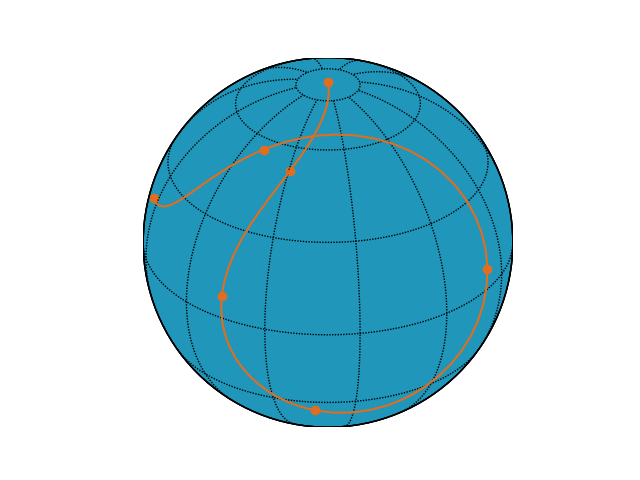
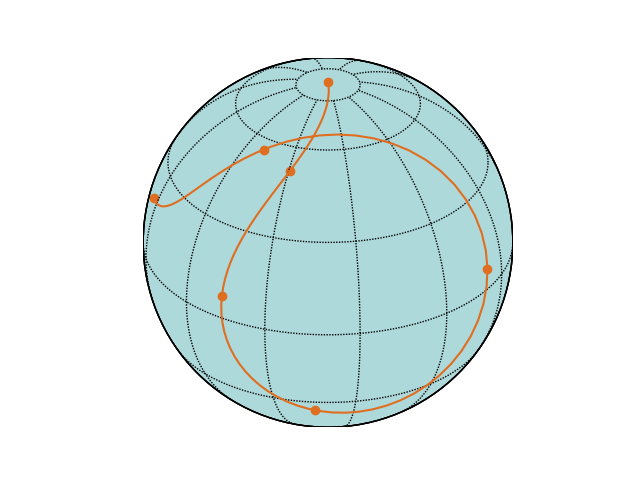
ccchanges

diff --git a/docs/build/searchindex.js b/docs/build/searchindex.js
@@ -1,1 +1,1 @@
-Search.setIndex({docnames:["auto_examples/index","auto_examples/plot_exp","auto_examples/plot_gaussianprocess","auto_examples/plot_mlfm_sim","index","reference/gaussianprocesses","reference/index","reference/kernels","reference/pydygp.gaussianprocesses.BaseGaussianProcess","reference/pydygp.gaussianprocesses.GaussianProcess","reference/pydygp.gaussianprocesses._GaussianProcess","reference/pydygp.kernels.BaseKernel","reference/pydygp.kernels.Kernel","reference/pydygp.kernels.SquareExponKernel","reference/pydygp.kernels.SquareExponentialKernel","user/index","user/modules/example","user/modules/gaussian_process","user/modules/kernels","user/modules/mlfm"],envversion:53,filenames:["auto_examples/index.rst","auto_examples/plot_exp.rst","auto_examples/plot_gaussianprocess.rst","auto_examples/plot_mlfm_sim.rst","index.rst","reference/gaussianprocesses.rst","reference/index.rst","reference/kernels.rst","reference/pydygp.gaussianprocesses.BaseGaussianProcess.rst","reference/pydygp.gaussianprocesses.GaussianProcess.rst","reference/pydygp.gaussianprocesses._GaussianProcess.rst","reference/pydygp.kernels.BaseKernel.rst","reference/pydygp.kernels.Kernel.rst","reference/pydygp.kernels.SquareExponKernel.rst","reference/pydygp.kernels.SquareExponentialKernel.rst","user/index.rst","user/modules/example.rst","user/modules/gaussian_process.rst","user/modules/kernels.rst","user/modules/mlfm.rst"],objects:{"":{pydygp:[6,0,0,"-"]},"pydygp.gaussianprocesses":{BaseGaussianProcess:[8,1,1,""],GaussianProcess:[9,1,1,""],_GaussianProcess:[10,1,1,""]},"pydygp.gaussianprocesses.BaseGaussianProcess":{__init__:[8,2,1,""],fit:[8,2,1,""]},"pydygp.gaussianprocesses.GaussianProcess":{__init__:[9,2,1,""],fit:[9,2,1,""],hyperpar_mh_update:[9,2,1,""],hyperpar_optim:[9,2,1,""],loglikelihood:[9,2,1,""],pred:[9,2,1,""],sim:[9,2,1,""]},"pydygp.gaussianprocesses._GaussianProcess":{__init__:[10,2,1,""]},"pydygp.kernels":{BaseKernel:[11,1,1,""],Kernel:[12,1,1,""],SquareExponentialKernel:[14,1,1,""]},"pydygp.kernels.BaseKernel":{__init__:[11,2,1,""],cov:[11,2,1,""]},"pydygp.kernels.Kernel":{SquareExponKernel:[12,3,1,""],__init__:[12,2,1,""]},"pydygp.kernels.SquareExponentialKernel":{__init__:[14,2,1,""]}},objnames:{"0":["py","module","Python module"],"1":["py","class","Python class"],"2":["py","method","Python method"],"3":["py","classmethod","Python class method"]},objtypes:{"0":"py:module","1":"py:class","2":"py:method","3":"py:classmethod"},terms:{"2096ba":3,"30n":3,"70w":3,"\u00f3scar":1,"case":9,"class":[5,8,9,10,11,12,14,15],"default":[9,17],"function":[0,3,6,8,9,11,15,17],"import":[1,2,3,15,17,19],"int":9,"n\u00e1jera":1,"new":17,"return":[2,3,9,11],"true":[2,3,8,17],And:5,For:[6,15],ODE:3,The:[7,9,14,15,17,19],Then:17,Using:[4,15],__init__:[8,9,10,11,12,14],__main__:[1,2,3],__name__:[1,2,3],_gaussianprocess:[6,17],accur:[9,10,11,12],algebra:3,all:0,along:19,alpha:2,also:6,altogeth:17,applic:10,arang:3,arctan2:3,arg:9,argument:9,around:19,arrai:[3,19],auto_examples_jupyt:0,auto_examples_python:0,autonomi:1,az_:3,base:11,basegaussianprocess:[6,17],basekernel:6,basemap:3,basi:3,basic:[3,8,9,17],beg:9,behav:10,bsd:1,call:[9,17],can:17,cannot:12,carri:[8,9],cart2sph:3,cart:3,classmethod:12,claus:1,click:[1,2,3],code:[0,1,2,3,17,19],color:3,comput:[3,9],condit:17,consid:19,constant:19,construct:[5,8],contain:15,content:[4,5],contour:3,coord:3,coordin:3,cov:[2,11],cov_method:11,covari:[2,8,9,11,17],cpred:17,creat:[12,19],creation:10,data:[3,17],def:[1,2,3],degre:[3,9],dens:[2,3],depend:10,describ:6,detail:[6,15],df6e21:3,diag:2,dim:[12,14],displai:19,document:15,domain:9,down:3,download:[0,1,2,3],draw:3,drawmapboundari:3,drawmeridian:3,drawparallel:3,edg:3,el_:3,end:9,estim:9,everi:3,exampl:[1,2,3,6,12,15,19],exp:1,explain:15,exponenti:[0,2,12,14,15],expos:10,extra:9,factori:10,fals:[8,9],featur:15,figur:[1,2],fill_between:2,fill_col:3,fill_color:3,finit:9,first:19,fit:[0,5,8,9,16,17],fluctat:19,forc:[3,4,15],form:9,from:[2,3,17,19],full:[1,2,3],func:9,further:6,g_gp:3,galleri:[1,2,3,4,15],gaussian:[0,3,4,6,9,10,15,16],gaussianprocess:[2,3,6,15,17,19],gener:[0,1,2,3,15],given:[8,17],gps:3,grid:3,group:3,guid:[4,6],hast:9,have:17,help:[9,10,11,12],here:[1,2,3],hire:[17,19],how:[6,15],hxy:3,hyper:9,hyperpar_mh_upd:9,hyperpar_optim:[9,17],hyperparamet:[9,15],hypot:3,ight:[],imag:1,implement:17,includ:6,independ:3,index:4,infinitesim:[3,19],initalis:[2,8],initi:[9,10,11,12],input:9,instal:15,intdend:15,interpol:9,intersphinx:12,introductori:15,invol:19,ipynb:[1,2,3],is_mean_zero:8,jitter:9,jupyt:[0,1,2,3],kernel:[2,4,6,8,9,15,17],kfunc:12,kpar:[3,8,9,11,12,14,17,19],kpar_cur:9,kpar_prior:9,kpar_propos:9,kwarg:[9,12],lat:3,lat_0:3,latent:[3,4,15],len:3,let:19,licens:1,lie:3,like:10,likelihood:9,limb:3,line:3,linecol:3,linlatentforcemodel:[3,15,19],linspac:[1,2,3,17],list:19,log:9,loglikelihood:9,lon:3,lon_0:3,look:3,lpcur:9,mai:17,main:[1,2,3],make:[3,15,17,19],manag:10,map:3,mathbf:[],matplotlib:[1,2,3],matric:[3,19],matrix:[9,11],maximum:9,mean:[2,17],method:[8,9,11,12,14,17],metropoli:9,minut:[1,2,3],mlfm:[0,15],model:[3,4,5,15],modul:[4,6],more:[5,6,10],most:15,mpl_toolkit:3,mpred:17,multipl:[1,4,15],must:9,nativ:3,none:[2,8,9,11,12,14,17],north:19,notebook:[0,1,2,3],numpi:[1,2,3,17,19],object:[6,10,15,17],observ:[2,17],optimis:15,option:9,order:1,ortho:3,orthograph:3,out:[3,8,9],over:[3,9],overview:15,p_x:3,p_y:3,packag:[6,15],page:4,par_grad:11,paramet:[8,9,17],parameteris:[11,14],particular:17,pass:[9,19],pdf:[17,19],perform:[9,17],perspect:3,pickl:12,plot:[0,2,3],plot_exp:1,plot_gaussianprocess:2,plot_mlfm_sim:3,plote:1,plt:[1,2,3],png:[17,19],point:[9,17],pole:19,polynomi:9,pred:[2,9,17],predict:[2,9,17],process:[0,3,4,6,9,10,15,16],project:3,put:17,px_d:3,py_d:3,pydygp:[2,3,17,19],pyplot:[1,2,3],python:[0,1,2,3],rad2deg:3,random:[2,3,19],rang:3,refer:[4,15],region:3,regress:15,relat:5,resolut:3,result:19,return_cov:9,return_covar:[2,9,17],return_gp:3,rotat:[3,19],run:[1,2,3],sampl:[2,9,17],satellit:3,scatter:3,script:[1,2,3],search:4,second:[1,2,3],see:[6,9,10,11,12,15],seed:[2,3],self:[9,10,11,12],set:[3,17],shere:19,show:[1,2,3],signatur:[9,10,11,12],sim:[2,3,9],simpl:[1,2,15,19],simul:[0,9,15,16],sin:17,singl:9,solv:3,some:[2,3,17],sourc:[0,1,2,3,8,9,10,11,12,14,17,19],sphere:19,spheric:3,sphinx:[0,1,2,3,4,15],sqexp:[2,3,19],sqexp_gpr:17,sqrt:2,squar:[2,12,14,15],squareexponentialkernel:[6,17,18],squareexponkernel:12,stack:1,standard:3,store:9,store_cov:8,store_inv_cov:[8,9],store_new_par:9,struct_mat:3,structur:19,test:1,thei:6,thi:[6,12,15],time:[1,2,3],total:[1,2,3],trajectori:3,tt_d:3,tt_dens:3,tt_gp_sim:3,ttd:17,tupl:9,two:1,type:[9,10,11,12],updat:9,use:[6,12,15],used:[9,17],user:[4,6,10],using:[15,17],util:3,variabl:9,what:6,where:[3,9],which:9,xlabel:1,xnew:9,y_dens:3,ylabel:1,you:12,zip:0},titles:["Gallery of Examples","Plotting the exponential function","Simulate and Fit a Gaussian Process","Simulating the MLFM","Welcome to pydygp\u2019s documentation!","Gaussian Processes","PydyGp Reference","Kernels","pydygp.gaussianprocesses.BaseGaussianProcess","pydygp.gaussianprocesses.GaussianProcess","pydygp.gaussianprocesses._GaussianProcess","pydygp.kernels.BaseKernel","pydygp.kernels.Kernel","pydygp.kernels.SquareExponKernel","pydygp.kernels.SquareExponentialKernel","PydyGp User Guide","4. Using Sphinx Gallery","2. Gaussian Processes","1. Kernels","3. Multiplicative Latent Force Models"],titleterms:{"function":1,The:18,Using:16,_gaussianprocess:10,basegaussianprocess:8,basekernel:11,document:4,exampl:[0,16],exponenti:[1,18],fit:2,forc:19,galleri:[0,16],gaussian:[2,5,17],gaussianprocess:[8,9,10,16],gener:18,guid:15,hyperparamet:17,indic:4,kernel:[7,11,12,13,14,18],latent:19,linlatentforcemodel:16,mlfm:[3,16,19],model:19,multipl:19,object:18,optimis:17,plot:1,process:[2,5,17],pydygp:[4,6,8,9,10,11,12,13,14,15,16],refer:6,regress:17,simpl:17,simul:[2,3,19],sphinx:16,squar:18,squareexponentialkernel:14,squareexponkernel:13,tabl:4,user:15,using:16,welcom:4}})
+Search.setIndex({docnames:["auto_examples/index","auto_examples/plot_exp","auto_examples/plot_gaussianprocess","auto_examples/plot_mlfm_sim","index","reference/gaussianprocesses","reference/index","reference/kernels","reference/pydygp.gaussianprocesses.BaseGaussianProcess","reference/pydygp.gaussianprocesses.GaussianProcess","reference/pydygp.gaussianprocesses._GaussianProcess","reference/pydygp.kernels.BaseKernel","reference/pydygp.kernels.Kernel","reference/pydygp.kernels.SquareExponKernel","reference/pydygp.kernels.SquareExponentialKernel","user/index","user/modules/example","user/modules/gaussian_process","user/modules/kernels","user/modules/mlfm"],envversion:53,filenames:["auto_examples/index.rst","auto_examples/plot_exp.rst","auto_examples/plot_gaussianprocess.rst","auto_examples/plot_mlfm_sim.rst","index.rst","reference/gaussianprocesses.rst","reference/index.rst","reference/kernels.rst","reference/pydygp.gaussianprocesses.BaseGaussianProcess.rst","reference/pydygp.gaussianprocesses.GaussianProcess.rst","reference/pydygp.gaussianprocesses._GaussianProcess.rst","reference/pydygp.kernels.BaseKernel.rst","reference/pydygp.kernels.Kernel.rst","reference/pydygp.kernels.SquareExponKernel.rst","reference/pydygp.kernels.SquareExponentialKernel.rst","user/index.rst","user/modules/example.rst","user/modules/gaussian_process.rst","user/modules/kernels.rst","user/modules/mlfm.rst"],objects:{"":{pydygp:[6,0,0,"-"]},"pydygp.gaussianprocesses":{BaseGaussianProcess:[8,1,1,""],GaussianProcess:[9,1,1,""],_GaussianProcess:[10,1,1,""]},"pydygp.gaussianprocesses.BaseGaussianProcess":{__init__:[8,2,1,""],fit:[8,2,1,""]},"pydygp.gaussianprocesses.GaussianProcess":{__init__:[9,2,1,""],fit:[9,2,1,""],hyperpar_mh_update:[9,2,1,""],hyperpar_optim:[9,2,1,""],loglikelihood:[9,2,1,""],pred:[9,2,1,""],sim:[9,2,1,""]},"pydygp.gaussianprocesses._GaussianProcess":{__init__:[10,2,1,""]},"pydygp.kernels":{BaseKernel:[11,1,1,""],Kernel:[12,1,1,""],SquareExponentialKernel:[14,1,1,""]},"pydygp.kernels.BaseKernel":{__init__:[11,2,1,""],cov:[11,2,1,""]},"pydygp.kernels.Kernel":{SquareExponKernel:[12,3,1,""],__init__:[12,2,1,""]},"pydygp.kernels.SquareExponentialKernel":{__init__:[14,2,1,""]}},objnames:{"0":["py","module","Python module"],"1":["py","class","Python class"],"2":["py","method","Python method"],"3":["py","classmethod","Python class method"]},objtypes:{"0":"py:module","1":"py:class","2":"py:method","3":"py:classmethod"},terms:{"2096ba":[],"30n":3,"70w":3,"\u00f3scar":1,"case":9,"class":[5,8,9,10,11,12,14,15],"default":[9,17],"function":[0,3,6,8,9,11,15,17],"import":[1,2,3,15,17,19],"int":9,"n\u00e1jera":1,"new":17,"return":[2,3,9,11],"true":[2,3,8,17],And:5,For:[6,15],ODE:3,The:[7,9,14,15,17,19],Then:17,Using:[4,15],__init__:[8,9,10,11,12,14],__main__:[1,2,3],__name__:[1,2,3],_gaussianprocess:[6,17],accur:[9,10,11,12],aed9da:3,algebra:3,all:0,along:19,alpha:2,also:6,altogeth:17,applic:10,arang:3,arctan2:3,arg:9,argument:9,around:19,arrai:[3,19],auto_examples_jupyt:0,auto_examples_python:0,autonomi:1,az_:3,base:11,basegaussianprocess:[6,17],basekernel:6,basemap:3,basi:3,basic:[3,8,9,17],beg:9,behav:10,bsd:1,call:[9,17],can:17,cannot:12,carri:[8,9],cart2sph:3,cart:3,classmethod:12,claus:1,click:[1,2,3],code:[0,1,2,3,17,19],color:3,comput:[3,9],condit:17,consid:19,constant:19,construct:[5,8],contain:15,content:[4,5],contour:3,coord:3,coordin:3,cov:[2,11],cov_method:11,covari:[2,8,9,11,17],cpred:17,creat:[12,19],creation:10,data:[3,17],def:[1,2,3],degre:[3,9],dens:[2,3],depend:10,describ:6,detail:[6,15],df6e21:3,diag:2,dim:[12,14],displai:19,document:15,domain:9,down:3,download:[0,1,2,3],draw:3,drawmapboundari:3,drawmeridian:3,drawparallel:3,edg:3,el_:3,end:9,estim:9,everi:3,exampl:[1,2,3,6,12,15,19],exp:1,explain:15,exponenti:[0,2,12,14,15],expos:10,extra:9,factori:10,fals:[8,9],featur:15,figur:[1,2],fill_between:2,fill_col:3,fill_color:3,finit:9,first:19,fit:[0,5,8,9,16,17],fluctat:19,forc:[3,4,15],form:9,from:[2,3,17,19],full:[1,2,3],func:9,further:6,g_gp:3,galleri:[1,2,3,4,15],gaussian:[0,3,4,6,9,10,15,16],gaussianprocess:[2,3,6,15,17,19],gener:[0,1,2,3,15],given:[8,17],gps:3,grid:3,group:3,guid:[4,6],hast:9,have:17,help:[9,10,11,12],here:[1,2,3],hire:[17,19],how:[6,15],hxy:3,hyper:9,hyperpar_mh_upd:9,hyperpar_optim:[9,17],hyperparamet:[9,15],hypot:3,ight:[],imag:1,implement:17,includ:6,independ:3,index:4,infinitesim:[3,19],initalis:[2,8],initi:[9,10,11,12],input:9,instal:15,intdend:15,interpol:9,intersphinx:12,introductori:15,invol:19,ipynb:[1,2,3],is_mean_zero:8,jitter:9,jupyt:[0,1,2,3],kernel:[2,4,6,8,9,15,17],kfunc:12,kpar:[3,8,9,11,12,14,17,19],kpar_cur:9,kpar_prior:9,kpar_propos:9,kwarg:[9,12],lat:3,lat_0:3,latent:[3,4,15],len:3,let:19,licens:1,lie:3,like:10,likelihood:9,limb:3,line:3,linecol:3,linlatentforcemodel:[3,15,19],linspac:[1,2,3,17],list:19,log:9,loglikelihood:9,lon:3,lon_0:3,look:3,lpcur:9,mai:17,main:[1,2,3],make:[3,15,17,19],manag:10,map:3,mathbf:[],matplotlib:[1,2,3],matric:[3,19],matrix:[9,11],maximum:9,mean:[2,17],method:[8,9,11,12,14,17],metropoli:9,minut:[1,2,3],mlfm:[0,15],model:[3,4,5,15],modul:[4,6],more:[5,6,10],most:15,mpl_toolkit:3,mpred:17,multipl:[1,4,15],must:9,nativ:3,none:[2,8,9,11,12,14,17],north:19,notebook:[0,1,2,3],numpi:[1,2,3,17,19],object:[6,10,15,17],observ:[2,17],optimis:15,option:9,order:1,ortho:3,orthograph:3,out:[8,9],over:[3,9],overview:15,p_x:3,p_y:3,packag:[6,15],page:4,par_grad:11,paramet:[8,9,17],parameteris:[11,14],particular:17,pass:[9,19],pdf:[17,19],perform:[9,17],perspect:3,pickl:12,plot:[0,2,3],plot_exp:1,plot_gaussianprocess:2,plot_mlfm_sim:3,plote:1,plt:[1,2,3],png:[17,19],point:[9,17],pole:19,polynomi:9,pred:[2,9,17],predict:[2,9,17],process:[0,3,4,6,9,10,15,16],project:3,put:17,px_d:3,py_d:3,pydygp:[2,3,17,19],pyplot:[1,2,3],python:[0,1,2,3],rad2deg:3,random:[2,3,19],rang:3,refer:[4,15],region:3,regress:15,relat:5,resolut:3,result:19,return_cov:9,return_covar:[2,9,17],return_gp:3,rotat:[3,19],run:[1,2,3],sampl:[2,9,17],satellit:3,scatter:3,script:[1,2,3],search:4,second:[1,2,3],see:[6,9,10,11,12,15],seed:[2,3],self:[9,10,11,12],set:[3,17],shere:19,show:[1,2,3],signatur:[9,10,11,12],sim:[2,3,9],simpl:[1,2,15,19],simul:[0,9,15,16],sin:17,singl:9,solv:3,some:[2,3,17],sourc:[0,1,2,3,8,9,10,11,12,14,17,19],sphere:19,spheric:3,sphinx:[0,1,2,3,4,15],sqexp:[2,3,19],sqexp_gpr:17,sqrt:2,squar:[2,12,14,15],squareexponentialkernel:[6,17,18],squareexponkernel:12,stack:1,standard:3,store:9,store_cov:8,store_inv_cov:[8,9],store_new_par:9,struct_mat:3,structur:19,test:1,thei:6,thi:[6,12,15],time:[1,2,3],total:[1,2,3],trajectori:3,tt_d:3,tt_dens:3,tt_gp_sim:3,ttd:17,tupl:9,two:1,type:[9,10,11,12],updat:9,use:[6,12,15],used:[9,17],user:[4,6,10],using:[15,17],util:3,variabl:9,what:6,where:[3,9],which:9,xlabel:1,xnew:9,y_dens:3,ylabel:1,you:12,zip:0},titles:["Gallery of Examples","Plotting the exponential function","Simulate and Fit a Gaussian Process","Simulating the MLFM","Welcome to pydygp\u2019s documentation!","Gaussian Processes","PydyGp Reference","Kernels","pydygp.gaussianprocesses.BaseGaussianProcess","pydygp.gaussianprocesses.GaussianProcess","pydygp.gaussianprocesses._GaussianProcess","pydygp.kernels.BaseKernel","pydygp.kernels.Kernel","pydygp.kernels.SquareExponKernel","pydygp.kernels.SquareExponentialKernel","PydyGp User Guide","4. Using Sphinx Gallery","2. Gaussian Processes","1. Kernels","3. Multiplicative Latent Force Models"],titleterms:{"function":1,The:18,Using:16,_gaussianprocess:10,basegaussianprocess:8,basekernel:11,document:4,exampl:[0,16],exponenti:[1,18],fit:2,forc:19,galleri:[0,16],gaussian:[2,5,17],gaussianprocess:[8,9,10,16],gener:18,guid:15,hyperparamet:17,indic:4,kernel:[7,11,12,13,14,18],latent:19,linlatentforcemodel:16,mlfm:[3,16,19],model:19,multipl:19,object:18,optimis:17,plot:1,process:[2,5,17],pydygp:[4,6,8,9,10,11,12,13,14,15,16],refer:6,regress:17,simpl:17,simul:[2,3,19],sphinx:16,squar:18,squareexponentialkernel:14,squareexponkernel:13,tabl:4,user:15,using:16,welcom:4}})

diff --git a/docs/build/auto_examples/plot_mlfm_sim.html b/docs/build/auto_examples/plot_mlfm_sim.html
@@ -160,15 +160,8 @@
 <p>where <span class="math notranslate nohighlight">\(g_1(t)\)</span> and <span class="math notranslate nohighlight">\(g_2(t)\)</span> are independent Gaussian processes, and <span class="math notranslate nohighlight">\(\mathbf{L}_i\)</span> are the
 standard basis of the Lie algebra <span class="math notranslate nohighlight">\(\mathfrak{so}(3)\)</span> of the rotation group <span class="math notranslate nohighlight">\(SO(3)\)</span>.</p>
 <img alt="../_images/sphx_glr_plot_mlfm_sim_001.png" class="sphx-glr-single-img" src="../_images/sphx_glr_plot_mlfm_sim_001.png" />
-<p class="sphx-glr-script-out">Out:</p>
-<div class="sphx-glr-script-out highlight-none notranslate"><div class="highlight"><pre><span></span>(100, 2) (100,)
-</pre></div>
-</div>
-<div class="line-block">
-<div class="line"><br /></div>
-</div>
-<div class="highlight-python notranslate"><div class="highlight"><pre><span></span><span class="kn">import</span> <span class="nn">matplotlib.pyplot</span> <span class="kn">as</span> <span class="nn">plt</span>
-<span class="kn">from</span> <span class="nn">mpl_toolkits.basemap</span> <span class="kn">import</span> <span class="n">Basemap</span>
+<div class="highlight-python notranslate"><div class="highlight"><pre><span></span><span class="kn">from</span> <span class="nn">mpl_toolkits.basemap</span> <span class="kn">import</span> <span class="n">Basemap</span>
+<span class="kn">import</span> <span class="nn">matplotlib.pyplot</span> <span class="kn">as</span> <span class="nn">plt</span>
 <span class="kn">import</span> <span class="nn">numpy</span> <span class="kn">as</span> <span class="nn">np</span>
 <span class="kn">from</span> <span class="nn">pydygp.gaussianprocesses</span> <span class="kn">import</span> <span class="n">GaussianProcess</span>
 <span class="kn">from</span> <span class="nn">pydygp.linlatentforcemodels</span> <span class="kn">import</span> <span class="n">MLFM</span>
@@ -226,7 +219,7 @@ standard basis of the Lie algebra <span class="math notranslate nohighlight">\(\
                                 <span class="n">return_gp</span><span class="o">=</span><span class="bp">True</span><span class="p">)</span>
 
     <span class="c1"># plot colors</span>
-    <span class="n">fill_col</span> <span class="o">=</span> <span class="s1">&#39;#2096BA&#39;</span>
+    <span class="n">fill_col</span> <span class="o">=</span> <span class="s1">&#39;#AED9DA&#39;</span>
     <span class="n">linecol</span> <span class="o">=</span> <span class="s1">&#39;#DF6E21&#39;</span>
 
     <span class="c1"># set up orthographic map projection with</span>
@@ -263,7 +256,7 @@ standard basis of the Lie algebra <span class="math notranslate nohighlight">\(\
     <span class="n">main</span><span class="p">()</span>
 </pre></div>
 </div>
-<p><strong>Total running time of the script:</strong> ( 0 minutes  3.164 seconds)</p>
+<p><strong>Total running time of the script:</strong> ( 0 minutes  3.220 seconds)</p>
 <div class="sphx-glr-footer class sphx-glr-footer-example docutils container" id="sphx-glr-download-auto-examples-plot-mlfm-sim-py">
 <div class="sphx-glr-download docutils container">
 <a class="reference download internal" href="../_downloads/plot_mlfm_sim.py" download=""><code class="xref download docutils literal notranslate"><span class="pre">Download</span> <span class="pre">Python</span> <span class="pre">source</span> <span class="pre">code:</span> <span class="pre">plot_mlfm_sim.py</span></code></a></div>

diff --git a/docs/build/_downloads/plot_mlfm_sim.py b/docs/build/_downloads/plot_mlfm_sim.py
@@ -12,8 +12,8 @@ Simulates the model
 where :math:`g_1(t)` and :math:`g_2(t)` are independent Gaussian processes, and :math:`\mathbf{L}_i` are the
 standard basis of the Lie algebra :math:`\mathfrak{so}(3)` of the rotation group :math:`SO(3)`.
 """
-import matplotlib.pyplot as plt
 from mpl_toolkits.basemap import Basemap
+import matplotlib.pyplot as plt
 import numpy as np
 from pydygp.gaussianprocesses import GaussianProcess
 from pydygp.linlatentforcemodels import MLFM
@@ -71,7 +71,7 @@ def main():
                                 return_gp=True)    
 
     # plot colors
-    fill_col = '#2096BA'
+    fill_col = '#AED9DA'
     linecol = '#DF6E21'
     
     # set up orthographic map projection with

diff --git a/docs/source/auto_examples/plot_mlfm_sim.py b/docs/source/auto_examples/plot_mlfm_sim.py
@@ -12,8 +12,8 @@ Simulates the model
 where :math:`g_1(t)` and :math:`g_2(t)` are independent Gaussian processes, and :math:`\mathbf{L}_i` are the
 standard basis of the Lie algebra :math:`\mathfrak{so}(3)` of the rotation group :math:`SO(3)`.
 """
-import matplotlib.pyplot as plt
 from mpl_toolkits.basemap import Basemap
+import matplotlib.pyplot as plt
 import numpy as np
 from pydygp.gaussianprocesses import GaussianProcess
 from pydygp.linlatentforcemodels import MLFM
@@ -71,7 +71,7 @@ def main():
                                 return_gp=True)    
 
     # plot colors
-    fill_col = '#2096BA'
+    fill_col = '#AED9DA'
     linecol = '#DF6E21'
     
     # set up orthographic map projection with

diff --git a/example/plot_mlfm_sim.py b/example/plot_mlfm_sim.py
@@ -12,8 +12,8 @@ Simulates the model
 where :math:`g_1(t)` and :math:`g_2(t)` are independent Gaussian processes, and :math:`\mathbf{L}_i` are the
 standard basis of the Lie algebra :math:`\mathfrak{so}(3)` of the rotation group :math:`SO(3)`.
 """
-import matplotlib.pyplot as plt
 from mpl_toolkits.basemap import Basemap
+import matplotlib.pyplot as plt
 import numpy as np
 from pydygp.gaussianprocesses import GaussianProcess
 from pydygp.linlatentforcemodels import MLFM

diff --git a/docs/source/auto_examples/plot_mlfm_sim.rst b/docs/source/auto_examples/plot_mlfm_sim.rst
@@ -26,24 +26,13 @@ standard basis of the Lie algebra :math:`\mathfrak{so}(3)` of the rotation group
     :class: sphx-glr-single-img
 
 
-.. rst-class:: sphx-glr-script-out
 
- Out:
-
- .. code-block:: none
-
-    (100, 2) (100,)
-
-
-
-
-|
 
 
 .. code-block:: python
 
-    import matplotlib.pyplot as plt
     from mpl_toolkits.basemap import Basemap
+    import matplotlib.pyplot as plt
     import numpy as np
     from pydygp.gaussianprocesses import GaussianProcess
     from pydygp.linlatentforcemodels import MLFM
@@ -101,7 +90,7 @@ standard basis of the Lie algebra :math:`\mathfrak{so}(3)` of the rotation group
                                     return_gp=True)    
 
         # plot colors
-        fill_col = '#2096BA'
+        fill_col = '#AED9DA'
         linecol = '#DF6E21'
     
         # set up orthographic map projection with
@@ -137,7 +126,7 @@ standard basis of the Lie algebra :math:`\mathfrak{so}(3)` of the rotation group
     if __name__ == '__main__':
         main()
 
-**Total running time of the script:** ( 0 minutes  3.164 seconds)
+**Total running time of the script:** ( 0 minutes  3.220 seconds)
 
 
 .. _sphx_glr_download_auto_examples_plot_mlfm_sim.py:
